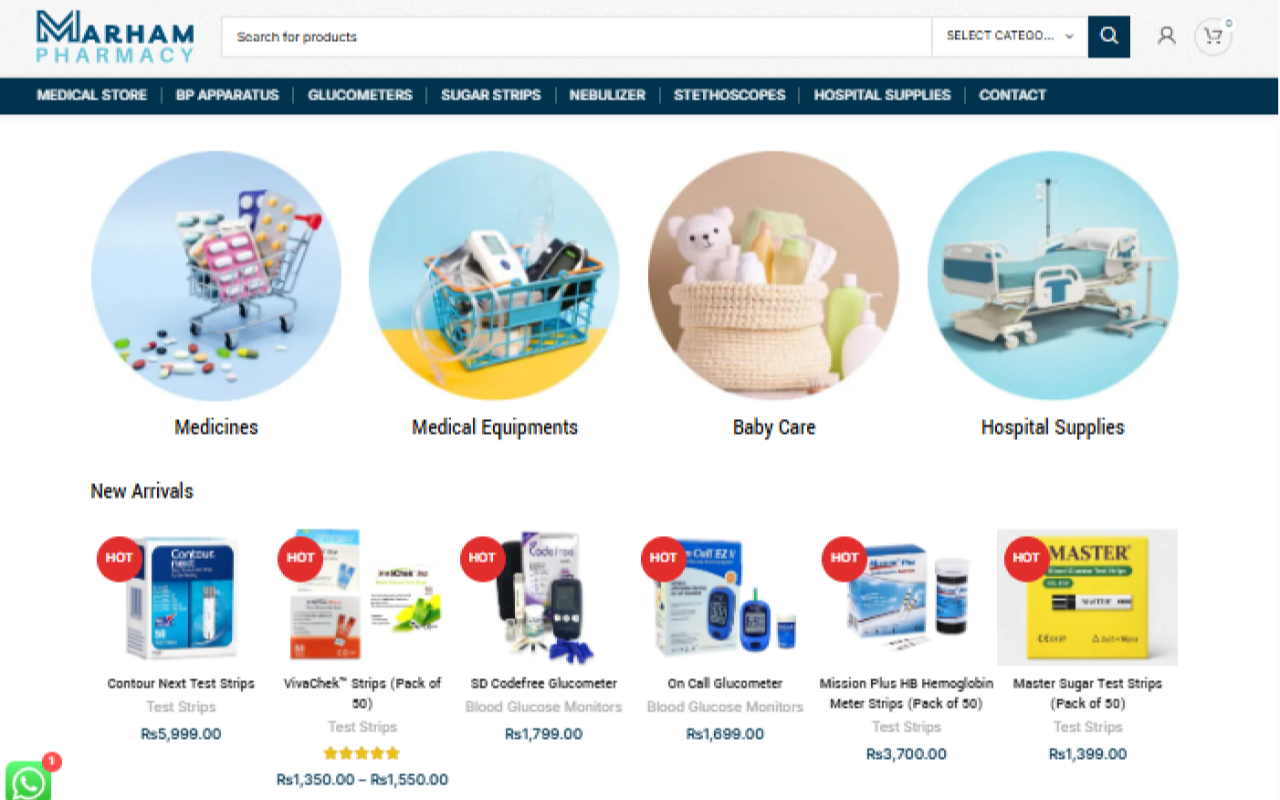
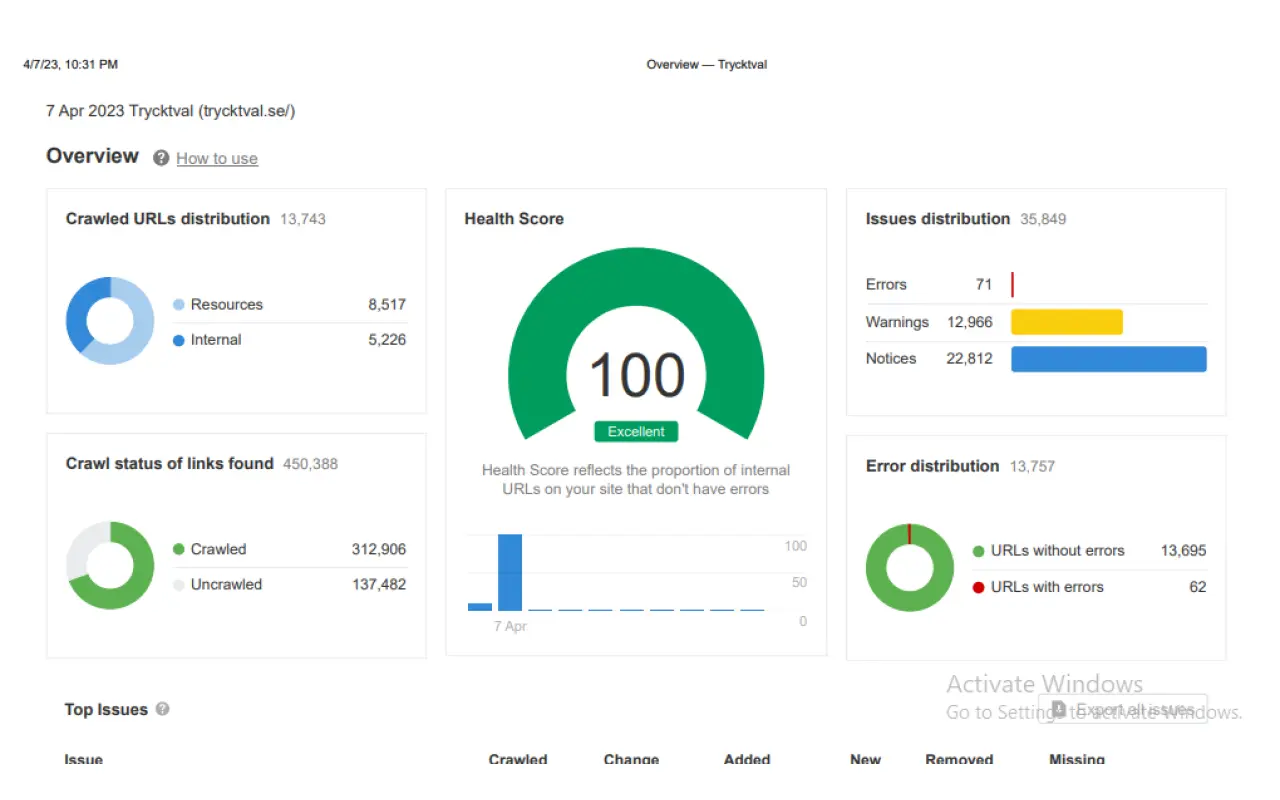
Updated currency to Euro and commented out SEO services/projects

diff --git a/lib/data.ts b/lib/data.ts
@@ -258,16 +258,16 @@ export const PROJECTS: ProjectCard[] = [
   },
   {
     slug:          'marham-pharmacy',
-    title:         'Marham Pharmacy',
+    title:         'Tryckt Val',
     category:      'seo',
-    categoryLabel: 'SEO • Healthcare',
+    categoryLabel: 'SEO • B2B',
     industry:      'Healthcare & Pharmacy',
-    location:      'Pakistan',
-    description:   'Local SEO and WooCommerce optimisation for a medical store — improved search visibility across multiple product categories.',
-    liveUrl:       'https://www.marhampharmacy.pk',
+    location:      'Swedish',
+    description:   'Swedish B2B promotional products store whre we fixed technical SEO issues for this store and improved the site health',
+    liveUrl:       'https://trycktval.se/',
     hasDetailPage: false,
     screenshot:    '/images/marhampharmacy.webp',
-    tags:          ['SEO', 'Healthcare', 'Local SEO'],
+    tags:          ['SEO', 'B2B', 'Technical SEO'],
     tagColors:     ['tag-amber', 'tag-cyan', 'tag-dim'],
   },
   {
